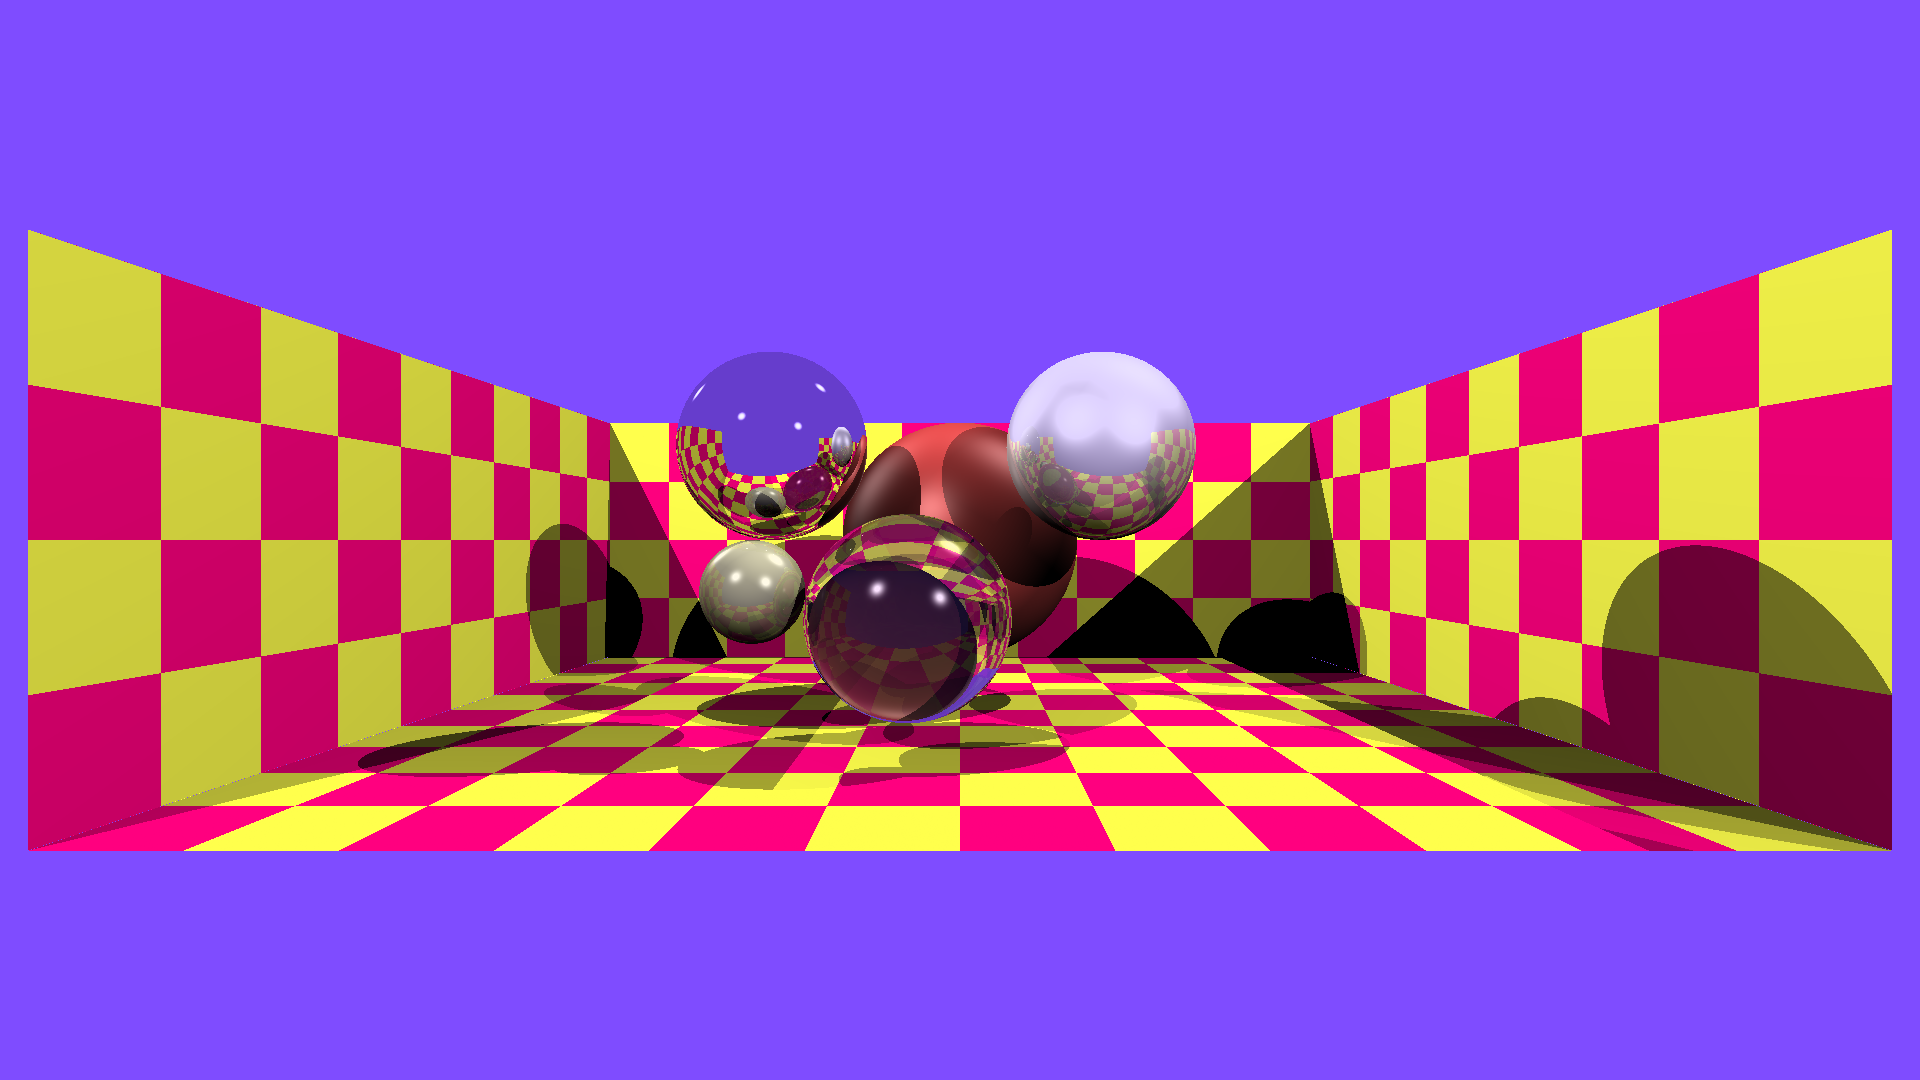
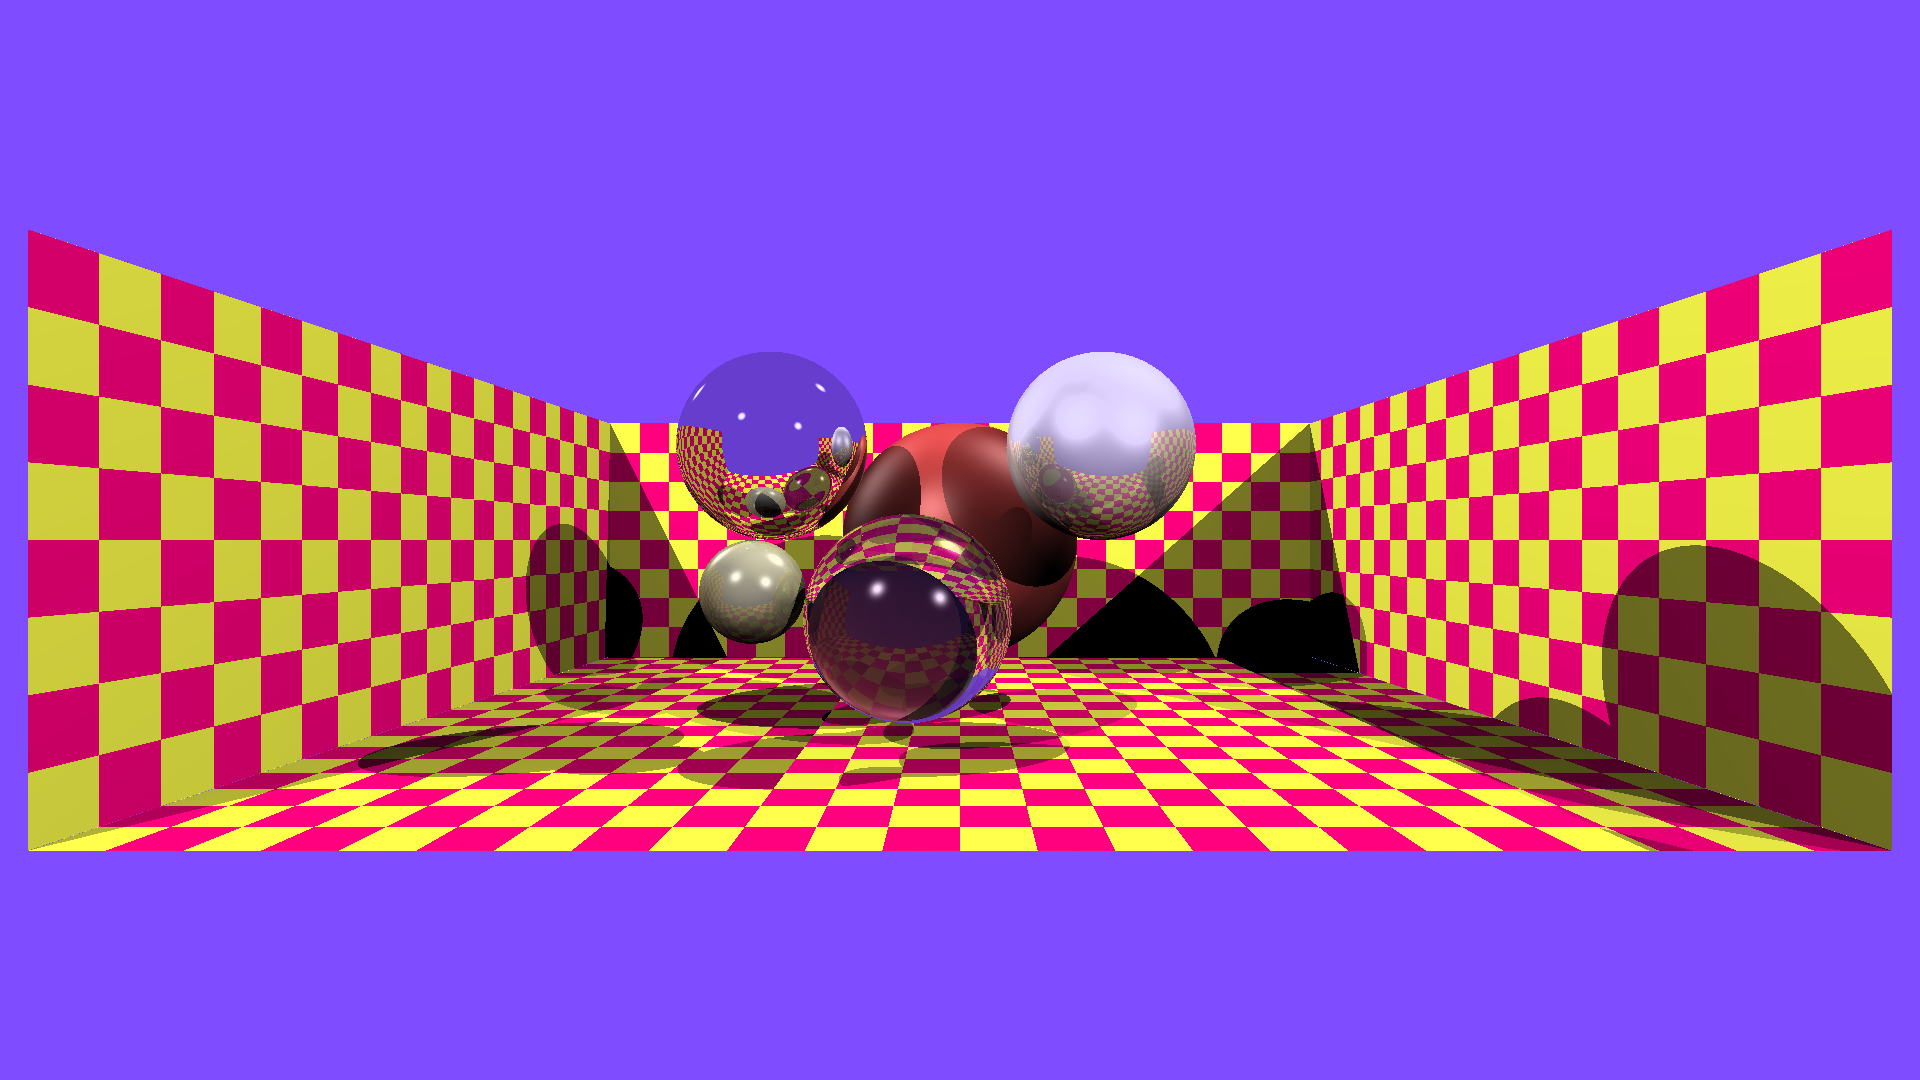
Buffer write

Changed region(s): [[0.0, 0.2139, 1.0, 0.7944], [0.4375, 0.3972, 0.4688, 0.4278]]

diff --git a/src/main.rs b/src/main.rs
@@ -1,6 +1,6 @@
 use rayon::prelude::*; // For parallelization
-use std::fs::File; // For writing to a file
-use std::io::prelude::*; // For writing to a file
+use std::fs::File;
+use std::io::{BufWriter, Write};
 
 mod constants;
 mod math;
@@ -75,11 +75,10 @@ fn scene_intersect(
             nearest_dist = d;
             pt = p;
             n = math::Vec3::new(1.0, 0.0, 0.0);
-            material.diffuse_color =
-                match ((0.5 * pt.y + 1000.0) as i32 + (0.5 * pt.z) as i32) & 1 == 1 {
-                    true => constants::BOX_COLOR1,
-                    false => constants::BOX_COLOR2,
-                };
+            material.diffuse_color = match ((pt.y + 1000.0) as i32 + pt.z as i32) & 1 == 1 {
+                true => constants::BOX_COLOR1,
+                false => constants::BOX_COLOR2,
+            };
             material.diffuse_color = material.diffuse_color * 0.3;
         }
 
@@ -90,11 +89,10 @@ fn scene_intersect(
             nearest_dist = d;
             pt = p;
             n = math::Vec3::new(-1.0, 0.0, 0.0);
-            material.diffuse_color =
-                match ((0.5 * pt.y + 1000.0) as i32 + (0.5 * pt.z) as i32) & 1 == 1 {
-                    true => constants::BOX_COLOR1,
-                    false => constants::BOX_COLOR2,
-                };
+            material.diffuse_color = match ((pt.y + 1000.0) as i32 + pt.z as i32) & 1 == 1 {
+                true => constants::BOX_COLOR1,
+                false => constants::BOX_COLOR2,
+            };
             material.diffuse_color = material.diffuse_color * 0.3;
         }
     }
@@ -107,11 +105,10 @@ fn scene_intersect(
             nearest_dist = d;
             pt = p;
             n = math::Vec3::new(0.0, 1.0, 0.0);
-            material.diffuse_color =
-                match ((0.5 * pt.x + 1000.0) as i32 + (0.5 * pt.z) as i32) & 1 == 1 {
-                    true => constants::BOX_COLOR1,
-                    false => constants::BOX_COLOR2,
-                };
+            material.diffuse_color = match ((pt.x + 1000.0) as i32 + pt.z as i32) & 1 == 1 {
+                true => constants::BOX_COLOR1,
+                false => constants::BOX_COLOR2,
+            };
             material.diffuse_color = material.diffuse_color * 0.3;
         }
     }
@@ -124,11 +121,10 @@ fn scene_intersect(
             nearest_dist = d;
             pt = p;
             n = math::Vec3::new(0.0, 0.0, 1.0);
-            material.diffuse_color =
-                match ((0.5 * pt.y + 1000.0) as i32 + (0.5 * pt.x) as i32) & 1 == 1 {
-                    true => constants::BOX_COLOR1,
-                    false => constants::BOX_COLOR2,
-                };
+            material.diffuse_color = match ((pt.y + 1000.0) as i32 + pt.x as i32) & 1 == 1 {
+                true => constants::BOX_COLOR1,
+                false => constants::BOX_COLOR2,
+            };
             material.diffuse_color = material.diffuse_color * 0.3;
         }
     }
@@ -209,7 +205,7 @@ fn main() {
 
     println!("Writing to file...");
 
-    let mut file = File::create("out.ppm").unwrap();
+    let mut file = BufWriter::new(File::create("out.ppm").unwrap());
     file.write_all(format!("P6\n{} {}\n255\n", WIDTH, HEIGHT).as_bytes())
         .unwrap();
     for color in &framebuffer {
@@ -218,6 +214,8 @@ fn main() {
             file.write_all(&[(channel * scale) as u8]).unwrap();
         }
     }
+
+    file.flush().unwrap();
 
     println!("Done!");
 }
